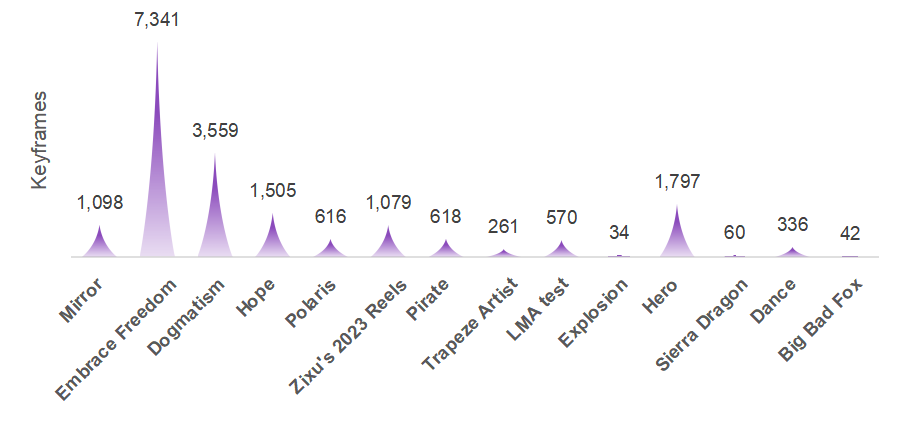
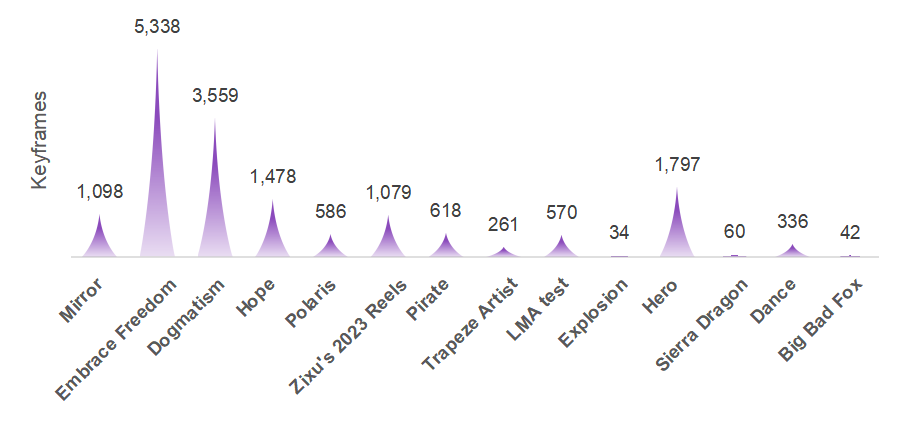
update

diff --git a/README.md b/README.md
@@ -9,21 +9,18 @@
 
 This is the official repository for the Anita Dataset. 
 
-Anita Dataset is a professional cartoon keyframe collection that provides high-quality hand-drawings from various animators. The dataset contains over 17,000 keyframes in intermediate formats used according to the standards of the modern animation industry, including 1080P `sketches`, `color` images and `compositions`. 
-
-
-
-![image](./assets/collage.jpg)
+Anita Dataset is a professional cartoon keyframe collection that provides high-quality hand-drawings from various animators. The dataset contains over 16,000 keyframes in intermediate formats used according to the standards of the modern animation industry, including 1080P `sketches`, `color` images and `compositions`. 
 
 ![image](./assets/intro.png)
-<div align="center">
 
+<div align="center">
 <a href="https://youtu.be/k_nwXkyXaHc" align="center">Video Introduction</a>
 </div>
 
-Anita Dataset contains over 17,000 `.png` image sequence from 14 different cartoons, licensed by animators under [`CC BY-NC-SA 4.0`](https://creativecommons.org/licenses/by-nc-sa/4.0/deed.en) and [`CC BY`](https://creativecommons.org/licenses/by/4.0/deed.en) License. 
+Anita Dataset contains over 16,000 `.png` image sequence from 14 different cartoons, licensed by animators under [`CC BY-NC-SA 4.0`](https://creativecommons.org/licenses/by-nc-sa/4.0/deed.en) and [`CC BY`](https://creativecommons.org/licenses/by/4.0/deed.en) License. 
 
 <div align="center">
+<img src="./assets/collage.jpg" style="width: 75%;" alt="image">
 <img src="./assets/statistics.png" style="width: 75%;" alt="image">
 </div>
 
@@ -34,17 +31,17 @@ For more Information, please refer to [Q&A](#qa) section.
 
 ##  <img src="./assets/icon.png" alt="Icon" width="20" height="20"> Download
 
-You can download the dataset from the [Google Drive link](https://drive.google.com/drive/folders/1J9J9Q6J9J9Q6J9Q6J9Q6J9Q6J9Q6J9Q6). The file size is  Feel free to download and explore it!
+You can download the dataset from the [Google Drive link(7.14G)](https://drive.google.com/drive/folders/1J9J9Q6J9J9Q6J9Q6J9Q6J9Q6J9Q6J9Q6). Feel free to download and explore it!
 
 ## Information
 
 | Preview | Artist(A-Z)  | Animation         | Keyframe | Sketch Clip | Color Clip | Composition Clip | License |
 |--------|--------------|-------------------|----------|-------------|------------|------------------|----|
 | ![image](./assets/mirror.png)       | [剑起长歌魂断蓝桥](https://space.bilibili.com/66637481) | [Mirror](https://www.bilibili.com/video/BV1fo4y1x7Kf)            | 1,098    | 15          | 15         | 0                | CC BY-NC-SA 4.0 |
-| ![image](./assets/embrace_freedom.jpg)       | [日勿广隶](https://space.bilibili.com/106188541)      | [Embrace Freedom](https://www.bilibili.com/video/BV15P41167Xr)   | 7,341    | 58          | 0          | 1                | CC BY-NC-SA 4.0|
+| ![image](./assets/embrace_freedom.jpg)       | [日勿广隶](https://space.bilibili.com/106188541)      | [Embrace Freedom](https://www.bilibili.com/video/BV15P41167Xr)   | 5,338    | 58          | 0          | 1                | CC BY-NC-SA 4.0|
 | ![image](./assets/dogmatism.jpg)       | [_嘲讽怪_](https://space.bilibili.com/17377005)     | [Dogmatism](https://www.bilibili.com/video/BV1Ct4y1x7hd/)         | 3,559    | 12          | 7          | 0                | CC BY-NC-SA 4.0|
-| ![image](./assets/hope.png)       | [ONE_XT](https://space.bilibili.com/11558936)   | [Hope](https://www.bilibili.com/video/BV1XS4y187rP/)              | 1,505    | 69          | 63         | 0                | CC BY-NC-SA 4.0|
-| ![image](./assets/polaris.png)       | [ONE_XT](https://space.bilibili.com/11558936)   | [Polaris](https://www.bilibili.com/video/BV1Ki4y1a79S/)           | 616      | 34          | 34         | 0                | CC BY-NC-SA 4.0|
+| ![image](./assets/hope.png)       | [ONE_XT](https://space.bilibili.com/11558936)   | [Hope](https://www.bilibili.com/video/BV1XS4y187rP/)              | 1,478    | 69          | 63         | 0                | CC BY-NC-SA 4.0|
+| ![image](./assets/polaris.png)       | [ONE_XT](https://space.bilibili.com/11558936)   | [Polaris](https://www.bilibili.com/video/BV1Ki4y1a79S/)           | 586      | 34          | 34         | 0                | CC BY-NC-SA 4.0|
 | ![image](./assets/practice_zixu.jpg)       | [秄虚](https://space.bilibili.com/30760830)     | [Zixu's 2023 Reels](https://www.bilibili.com/video/BV1pu4y1M7vQ/) | 1,079    | 9           | 3          | 3                | CC BY-NC-SA 4.0|
 | ![image](./assets/pirate.jpg)       | [Sergi Miranda](https://www.instagram.com/miranda.sergi/)     | [Pirate](http://www.sergimiranda.com/) | 618    |  1          |  1         |  1               | [CC BY](https://cloud.blender.org/p/gallery/5edd13a01e5ba50266481719) |
 | ![image](./assets/lma_test.png)       | [Renato Roldan](https://www.instagram.com/renato3xl/)     | [LMA test](https://vimeo.com/316551360) | 570    | 1           | 1          |  1               | [CC BY](https://cloud.blender.org/p/gallery/5cb45931808c0e42c75ba18d) |
@@ -89,7 +86,7 @@ Anita_Dataset
 
 - **Hand-drawn**: Unlike [AnimeRun](https://github.com/lisiyao21/AnimeRun) or [PBC](https://github.com/ykdai/BasicPBC), which are rendered from 3D character models, Anita Dataset consists of frames drawn by human hands, aligning more closely with the standards of the modern 2D animation industry.
 
-- **High-quality Intermediate Format**: Compared to [Sakuga-42M Dataset](https://drive.google.com/file/d/1aeJqsBw92ebELEpP-oFBo-kcUpBzHm_E/view), which provides large-scale but 480p rendered clips, Anita Dataset offers high-resolution intermediate images. More than 17,000 sketches or flat colors are provided in 1080p resolution.
+- **High-quality Intermediate Format**: Compared to [Sakuga-42M Dataset](https://drive.google.com/file/d/1aeJqsBw92ebELEpP-oFBo-kcUpBzHm_E/view), which provides large-scale but 480p rendered clips, Anita Dataset offers high-resolution intermediate images. More than 16,000 sketches or flat colors are provided in 1080p resolution.
 
 - **Pairness** : Anita Dataset contains sketch-color pairs exported directly from engineering files.
 
